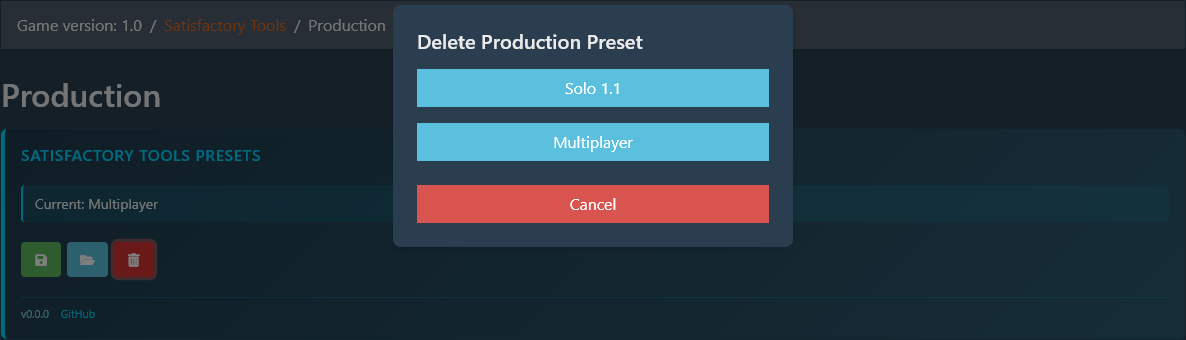
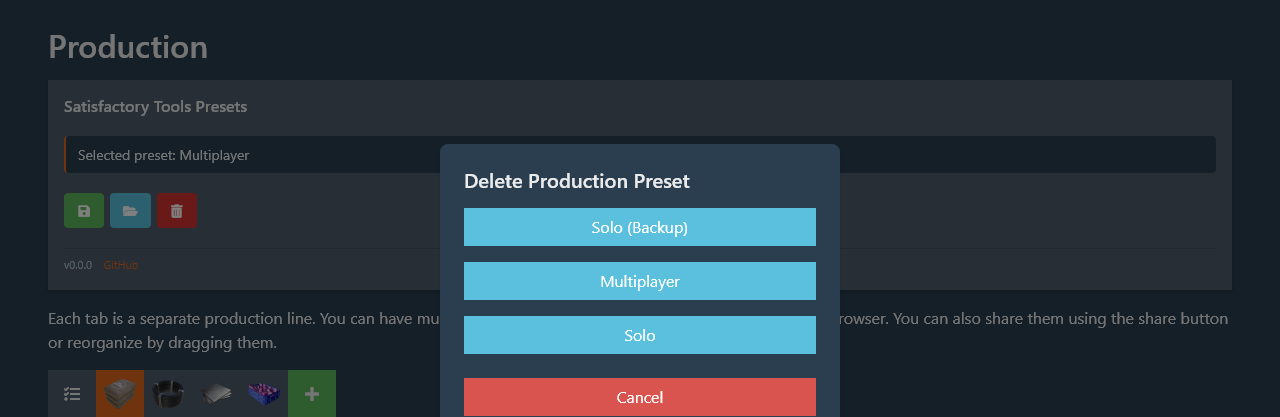
Improve panel styling, make it match the website better

diff --git a/src/main.ts b/src/main.ts
@@ -28,10 +28,9 @@ const _styles = {
         margin-top: 16px;
         margin-bottom: 16px;
         padding: 16px;
-        background: linear-gradient(135deg, #1e3a4c 0%, #2d5a6f 100%);
-        border-left: 4px solid #00d4ff;
-        border-radius: 6px;
-        box-shadow: 0 2px 8px rgba(0, 212, 255, 0.15);
+        background: #4E5D6C;
+        border-radius: 0px;
+        box-shadow: 0 2px 4px rgba(0, 0, 0, 0.2);
         display: flex;
         flex-direction: column;
     `,
@@ -40,18 +39,16 @@ const _styles = {
         margin-bottom: 12px;
         font-size: 16px;
         font-weight: 600;
-        color: #00d4ff;
-        text-transform: uppercase;
-        letter-spacing: 0.5px;
+        color: #EBEBEB;
     `,
     presetDisplay: `
         font-size: 14px;
         color: #EBEBEB;
         margin-bottom: 12px;
         padding: 8px 12px;
-        background-color: rgba(0, 212, 255, 0.1);
+        background-color: rgba(43, 62, 80, 1);
         border-radius: 4px;
-        border-left: 2px solid #00d4ff;
+        border-left: 2px solid #df691a;
     `,
     presetButtonGroup: `
         display: flex;
@@ -75,9 +72,9 @@ const _styles = {
     `,
     presetFooter: `
         padding-top: 8px;
-        border-top: 1px solid rgba(0, 212, 255, 0.2);
+        border-top: 1px solid rgba(43, 62, 80, 0.4);
         font-size: 11px;
-        color: #7dd3d3;
+        color: #a8c0cf;
         display: flex;
         gap: 12px;
         align-items: center;
@@ -86,7 +83,7 @@ const _styles = {
         flex-wrap: wrap;
     `,
     presetFooterLink: `
-        color: #00d4ff;
+        color: #df691a;
         text-decoration: none;
         transition: color 0.2s ease;
     `,
@@ -159,7 +156,7 @@ const _createPresetPanel = () => {
     display.id = 'sc-current-preset-display';
     display.style.cssText = _styles.presetDisplay;
     if (_currentPresetName) {
-        display.textContent = `Current: ${_currentPresetName}`;
+        display.textContent = `Selected preset: ${_currentPresetName}`;
     } else {
         display.textContent = 'No preset loaded';
     }
